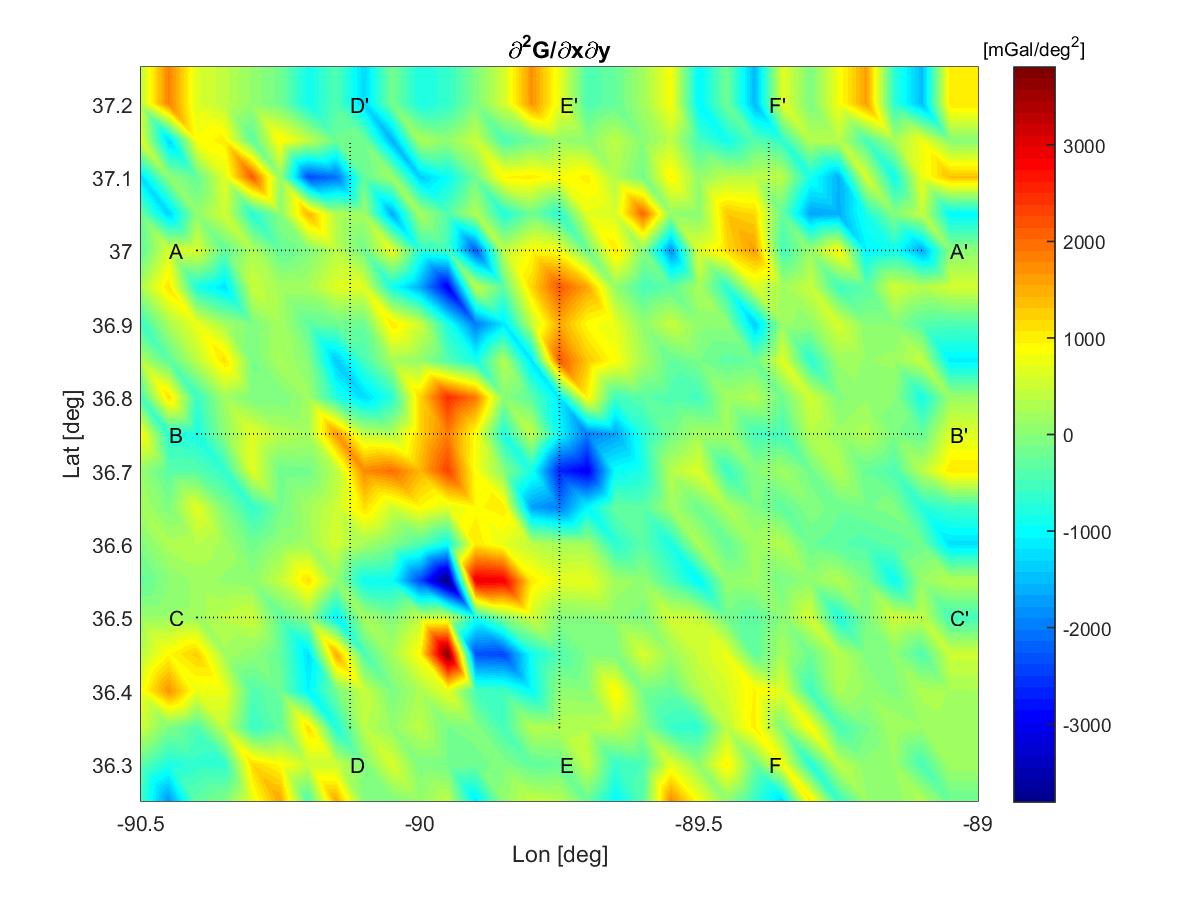
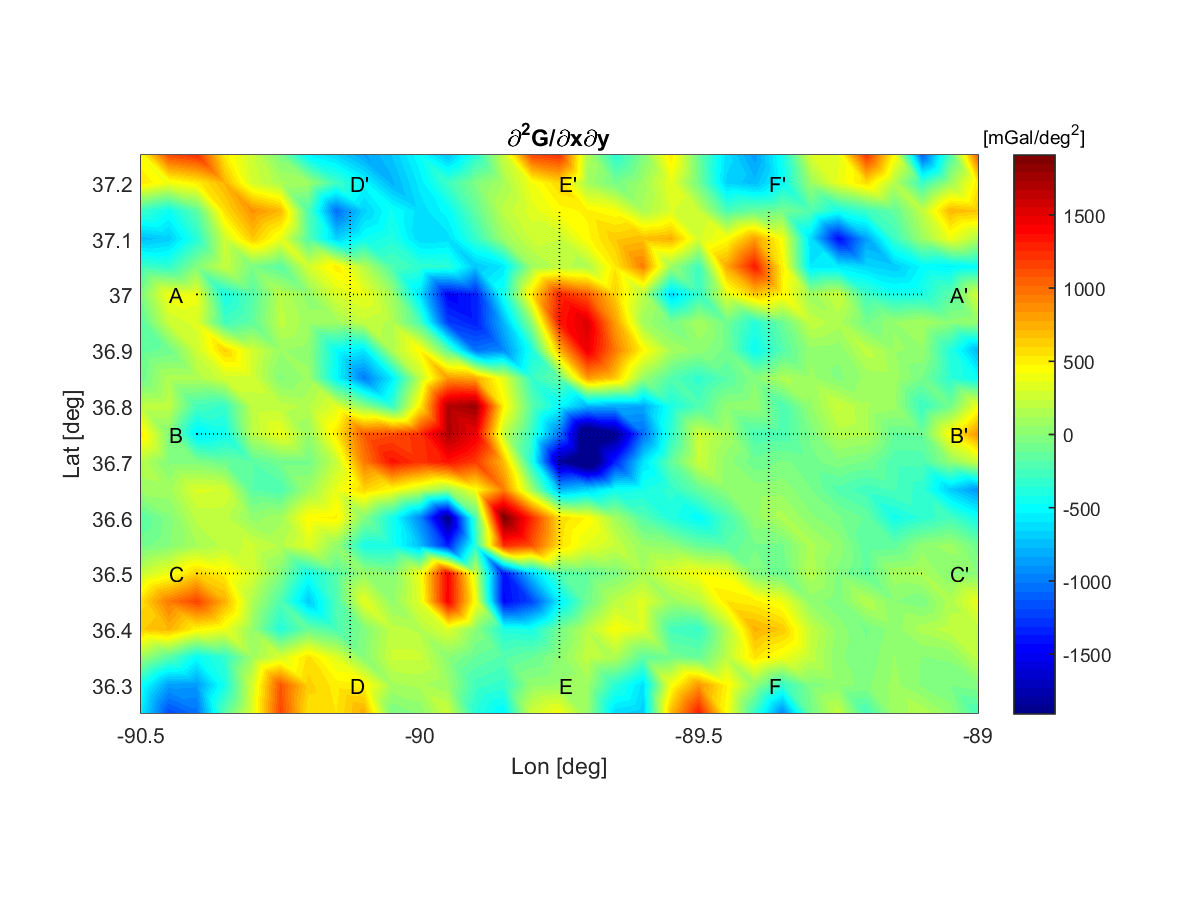
mega update
used gradient() instead of diff()

diff --git a/Combined_Packages_YuGeng/redist_cen_maggrav_yugeng/subroutines/direct_deriv.m b/Combined_Packages_YuGeng/redist_cen_maggrav_yugeng/subroutines/direct_deriv.m
@@ -1,6 +1,7 @@
 function u_max = direct_deriv(clim, fig, dl, Cg, glon, glat, az, subfdr)
 %DIRECT_DERIV    Directional derivative.
 % Compute first derivative along arbitrary azimuth.
+% 
 % clim - a specified fixed value range for the colorbar
 % fig - the figure handle, used for saving plot
 %     - you could have trouble with aspect ratio if you do not pass it
@@ -10,40 +11,36 @@ function u_max = direct_deriv(clim, fig, dl, Cg, glon, glat, az, subfdr)
 % az - azimuth provided in [deg], clockwise from north
 % subfdr - subfolder for saving figure
 %        - specify 'none' to turn the saving off
+% 
 % GENG, Yu
 % 2017-12-08
 % 
-% Coordinate System in a Matrix
-% Note that we did not flip lon and lat here. It is just a convention that
-% X corresponds to the first index and Y corresponds to the second index.
-% O --------------------> Y (lat)
-% |
-% |
-% |
-% |
-% |
-% |
-% |
-% |
-% \/
-% X (lon)
+% Clarification about MATLAB convention
+% * use the first index to move along +y axis (north)
+% * use the second index to move along +x axis (east)
+% - the convention about y axis is confusing, because when the index number
+%   increases, you are actually moving downward
+% - however, the data are stored in the matrix in a "downward increasing"
+%   manner i.e. you do not have to flip anything
+% 
 
 %% Compute gradients.
-Gx = diff(Cg, 1, 1) ./ dl;  % 1 means along lon
-Gy = diff(Cg, 1, 2) ./ dl;  % 2 means along lat
 
-% create duplicate values at matrix borders (remain original size)
-Gx_last_row = Gx(end,:);
-Gx = [Gx; Gx_last_row];
+% convert back into matlab convention
+Cg = Cg';
 
-Gy_last_column = Gy(:,end);
-Gy = [Gy, Gy_last_column];
+% compute gradients
+[Gx, Gy] = gradient(Cg);
+Gx = Gx ./ dl;
+Gy = Gy ./ dl;  % do not flip the sign here!
+
+% Gx - gradient along longitude
+% Gy - gradient along latitude
 
 %% Create a unit vector representing the AZ angle.
 rad = 90 - az;  % convert to math radian
 unit_x = cosd(rad);  % scalar
 unit_y = sind(rad);  % scalar
-% unit = [unit_x, unit_y];
 
 % perform inner product (Gx, Gy) : (unit_x, unit_y)
 Gd = Gx .* unit_x + Gy .* unit_y;
@@ -52,23 +49,25 @@ Gd = Gx .* unit_x + Gy .* unit_y;
 
 % find the origin of the vector
 loc = 0.67;  % location on plot, given as a ratio
-org_x = min(glon) + loc * (max(glon) - min(glon));
-org_y = min(glat) + loc * (max(glat) - min(glat));
-% org = [org_x, org_y];
+% org_x = min(glon) + loc * (max(glon) - min(glon));
+% org_y = min(glat) + loc * (max(glat) - min(glat));
 
 % start making the figure
 clf;
 savname = ['az_', num2str(az,'%03d'), '.png'];
 
 hold on;
-pcolor(glon, glat, Gd');
+pcolor(glon, glat, Gd);
 shading interp;
 colormap jet;
-% quiver(org_x, org_y, 0.1*unit_x, 0.1*unit_y, 'MaxHeadSize', 2.0);
+% quiver(org_x, org_y, 0.1*unit_x, ...
+%     0.1*unit_y, 'MaxHeadSize', 2.0);
 hold off;
 
-annotation('arrow', [loc, loc+0.1*loc*unit_x], [loc, loc+0.1*loc*unit_y]);
-title(['First Derivative towards ', num2str(az,'%3d'), '^\circ']);
+annotation('arrow', [loc, loc+0.1*loc*unit_x], ...
+    [loc, loc+0.1*loc*unit_y]);
+title(['First Derivative towards ', ...
+    num2str(az,'%3d'), '^\circ']);
 xlabel('Lon [deg]');
 ylabel('Lat [deg]');
 cb = colorbar;

diff --git a/Combined_Packages_YuGeng/redist_cen_maggrav_yugeng/subroutines/derivatives.m b/Combined_Packages_YuGeng/redist_cen_maggrav_yugeng/subroutines/derivatives.m
@@ -1,4 +1,4 @@
-function [Gx, Gy, Gxx, Gyy, Gxy] = derivatives(dl, Cg)
+function [Gx, Gy, Gxx, Gyy, Gxy, Gyx] = derivatives(dl, Cg)
 % first and second derivatives of Bouguer anomaly
 % created by Yu Geng
 % 2017-09-13
@@ -14,54 +14,53 @@ function [Gx, Gy, Gxx, Gyy, Gxy] = derivatives(dl, Cg)
 % Note that x corresponds to the row of a matrix and y corresponds to the
 % column of a matrix.
 % 
-% Coordinate System in a Matrix
-% O --------------------> Y (lat)
-% |
-% |
-% |
-% |
-% |
-% |
-% |
-% |
-% \/
-% X (lon)
+% Clarification about MATLAB convention
+% * use the first index to move along +y axis (north)
+% * use the second index to move along +x axis (east)
+% - the convention about y axis is confusing, because when the index number
+%   increases, you are actually moving downward
+% - however, the data are stored in the matrix in a "downward increasing"
+%   manner i.e. you do not have to flip anything
+% 
 
 %% Compute first derivatives.
-Gx = diff(Cg, 1, 1) ./ dl;  % 1 means along lon
-Gy = diff(Cg, 1, 2) ./ dl;  % 2 means along lat
+
+% restore matlab convention
+Cg = Cg';
+
+% compute central difference
+[Gx, Gy] = gradient(Cg);
+
+% convert to derivatives
+Gx = Gx ./ dl;
+Gy = Gy ./ dl;
+
+% Gx - gradient along longitude
+% Gy - gradient along latitude
 
 %% Compute second derivatives.
-Gxx = diff(Cg, 2, 1) ./ dl ./ dl;
-Gyy = diff(Cg, 2, 2) ./ dl ./ dl;
-Gxy = diff(Gx, 1, 2) ./ dl;  % 1,2 mean perform one derivative on the y coordinate
 
-% diff(a, 2, 1) is equivalent to diff(diff(a, 1, 1), 1, 1)
-% You can verify this by creating a random matrix.
+% compute central difference
+[Gxx, Gxy] = gradient(Gx);
+[Gyx, Gyy] = gradient(Gy);
 
-%% Create duplicate values at matrix borders (remain original size).
-Gx_last_row = Gx(end,:);
-Gx = [Gx; Gx_last_row];
+% convert to derivatives
+Gxx = Gxx ./ dl;
+Gxy = Gxy ./ dl;
+Gyx = Gyx ./ dl;
+Gyy = Gyy ./ dl;
 
-Gy_last_column = Gy(:,end);
-Gy = [Gy, Gy_last_column];
-
-Gxx_first_row = Gxx(1,:);
-Gxx_last_row = Gxx(end,:);
-Gxx = [Gxx_first_row; Gxx; Gxx_last_row];
-
-Gyy_first_column = Gxx(:,1);
-Gyy_last_column = Gxx(:,end);
-Gyy = [Gyy_first_column, Gyy, Gyy_last_column];
-
-Gxy_last_column = Gxy(:,end);
-Gxy = [Gxy, Gxy_last_column];
-Gxy_last_row = Gxy(end,:);
-Gxy = [Gxy; Gxy_last_row];
-
-% dGxy was obtained by taking x derivative first and then take y
+% Avoid using diff(), you will miss one row/column each time you take a
 % derivative.
-% Conversely, the missing column should be created firstly and the missing
-% row shoule be created secondly.
+% Use gradient() instead of diff(), it adopts central difference which
+% retains the size of the matrix.
+
+% flip x and y
+Gx = Gx';
+Gy = Gy';
+Gxx = Gxx';
+Gxy = Gxy';  % you can verify that
+Gyx = Gyx';  % Gyx is very close to Gxy
+Gyy = Gyy';
 
 end

diff --git a/Combined_Packages_YuGeng/redist_cen_maggrav_yugeng/main.m b/Combined_Packages_YuGeng/redist_cen_maggrav_yugeng/main.m
@@ -21,9 +21,9 @@
 % All tests passed on OS X 10.6.8 and 10.9.5 with GMT 4.
 % 
 % Created on: 2017-09-11
-% Last modification:
-%     - the colorscale of map view is forcely centred at zero
-%     - vertical axes are unified for all the cross-section windows
+% Last update:
+% * adjusted aspect ratio
+%   - lon and lat should be in the same scale
 % 
 
 clc
@@ -53,10 +53,6 @@ Fg = scatteredInterpolant(lon, lat, grav, 'natural', 'none');
 Cg = Fg(LON(:,:,1), LAT(:,:,1));
 Cg = Cg.';  % transpose into math convention
 
-% the idea matlab flips X and Y is to show the matrix with pcolor() with
-% its original structure (first index as vertical and second index as
-% horizontal)
-
 %% Screen output and figures.
 
 % show study region
@@ -65,14 +61,15 @@ disp([min(lon), max(lon), min(lat), max(lat)]);
 
 % plot raw data with cross-section profiles
 tol = 0.6 * dl;  % tolerance of data truncation
-margin = 0.10;  % distance between texts and the borders of the figure
+margin = 0.10;   % distance between texts and the borders of the figure
 cross_profiles('raw_data', 'Raw Data', '[mGal]', Cg, glon, glat, margin, tol);
 
 %% Compute first and second derivatives.
 
 % start timer
 tic();
-[Gx, Gy, Gxx, Gyy, Gxy] = derivatives(dl, Cg);
+disp('Computing derivatives...');
+[Gx, Gy, Gxx, Gyy, Gxy, Gyx] = derivatives(dl, Cg);
 toc();
 
 % save data

diff --git a/Combined_Packages_YuGeng/redist_cen_maggrav_yugeng/subroutines/cross_profiles.m b/Combined_Packages_YuGeng/redist_cen_maggrav_yugeng/subroutines/cross_profiles.m
@@ -242,4 +242,6 @@ title(['F', space_buffer, 'F''']);
 
 saveas(fig_ns, [outdir, '/profiles_ns.png']);
 
+disp(['Figures save as: ', outdir, '/*.png']);
+
 end

diff --git a/Combined_Packages_YuGeng/redist_cen_maggrav_yugeng/README.md b/Combined_Packages_YuGeng/redist_cen_maggrav_yugeng/README.md
@@ -4,7 +4,7 @@
 **Abstract**
 > The project aims to reproduce the functionalities of `plot_cen_maggrav` and
 > `profile_cen_maggrav` on a modern platform, instead of via the original shell
-> scripting, which makes the programs easier to read and debug/modify.
+> scripts, which makes the programs easier to read and debug/modify.
 
 **Features and capabilities**
 1) Plot several EW and NS cross-section profiles

diff --git a/Combined_Packages_YuGeng/README.md b/Combined_Packages_YuGeng/README.md
@@ -1,5 +1,5 @@
 `redist_cen_maggrav_yugeng` - package for cross-section profiles, first and
     second derivatives along lon and lat, detrending, continuation, and
-    directional derivatives towards arbitrary azimuths.
+    directional derivatives toward arbitrary azimuths.
     
 `redist_prob2_gravmod_yugeng` - package for doing forward and inverse modelings.
